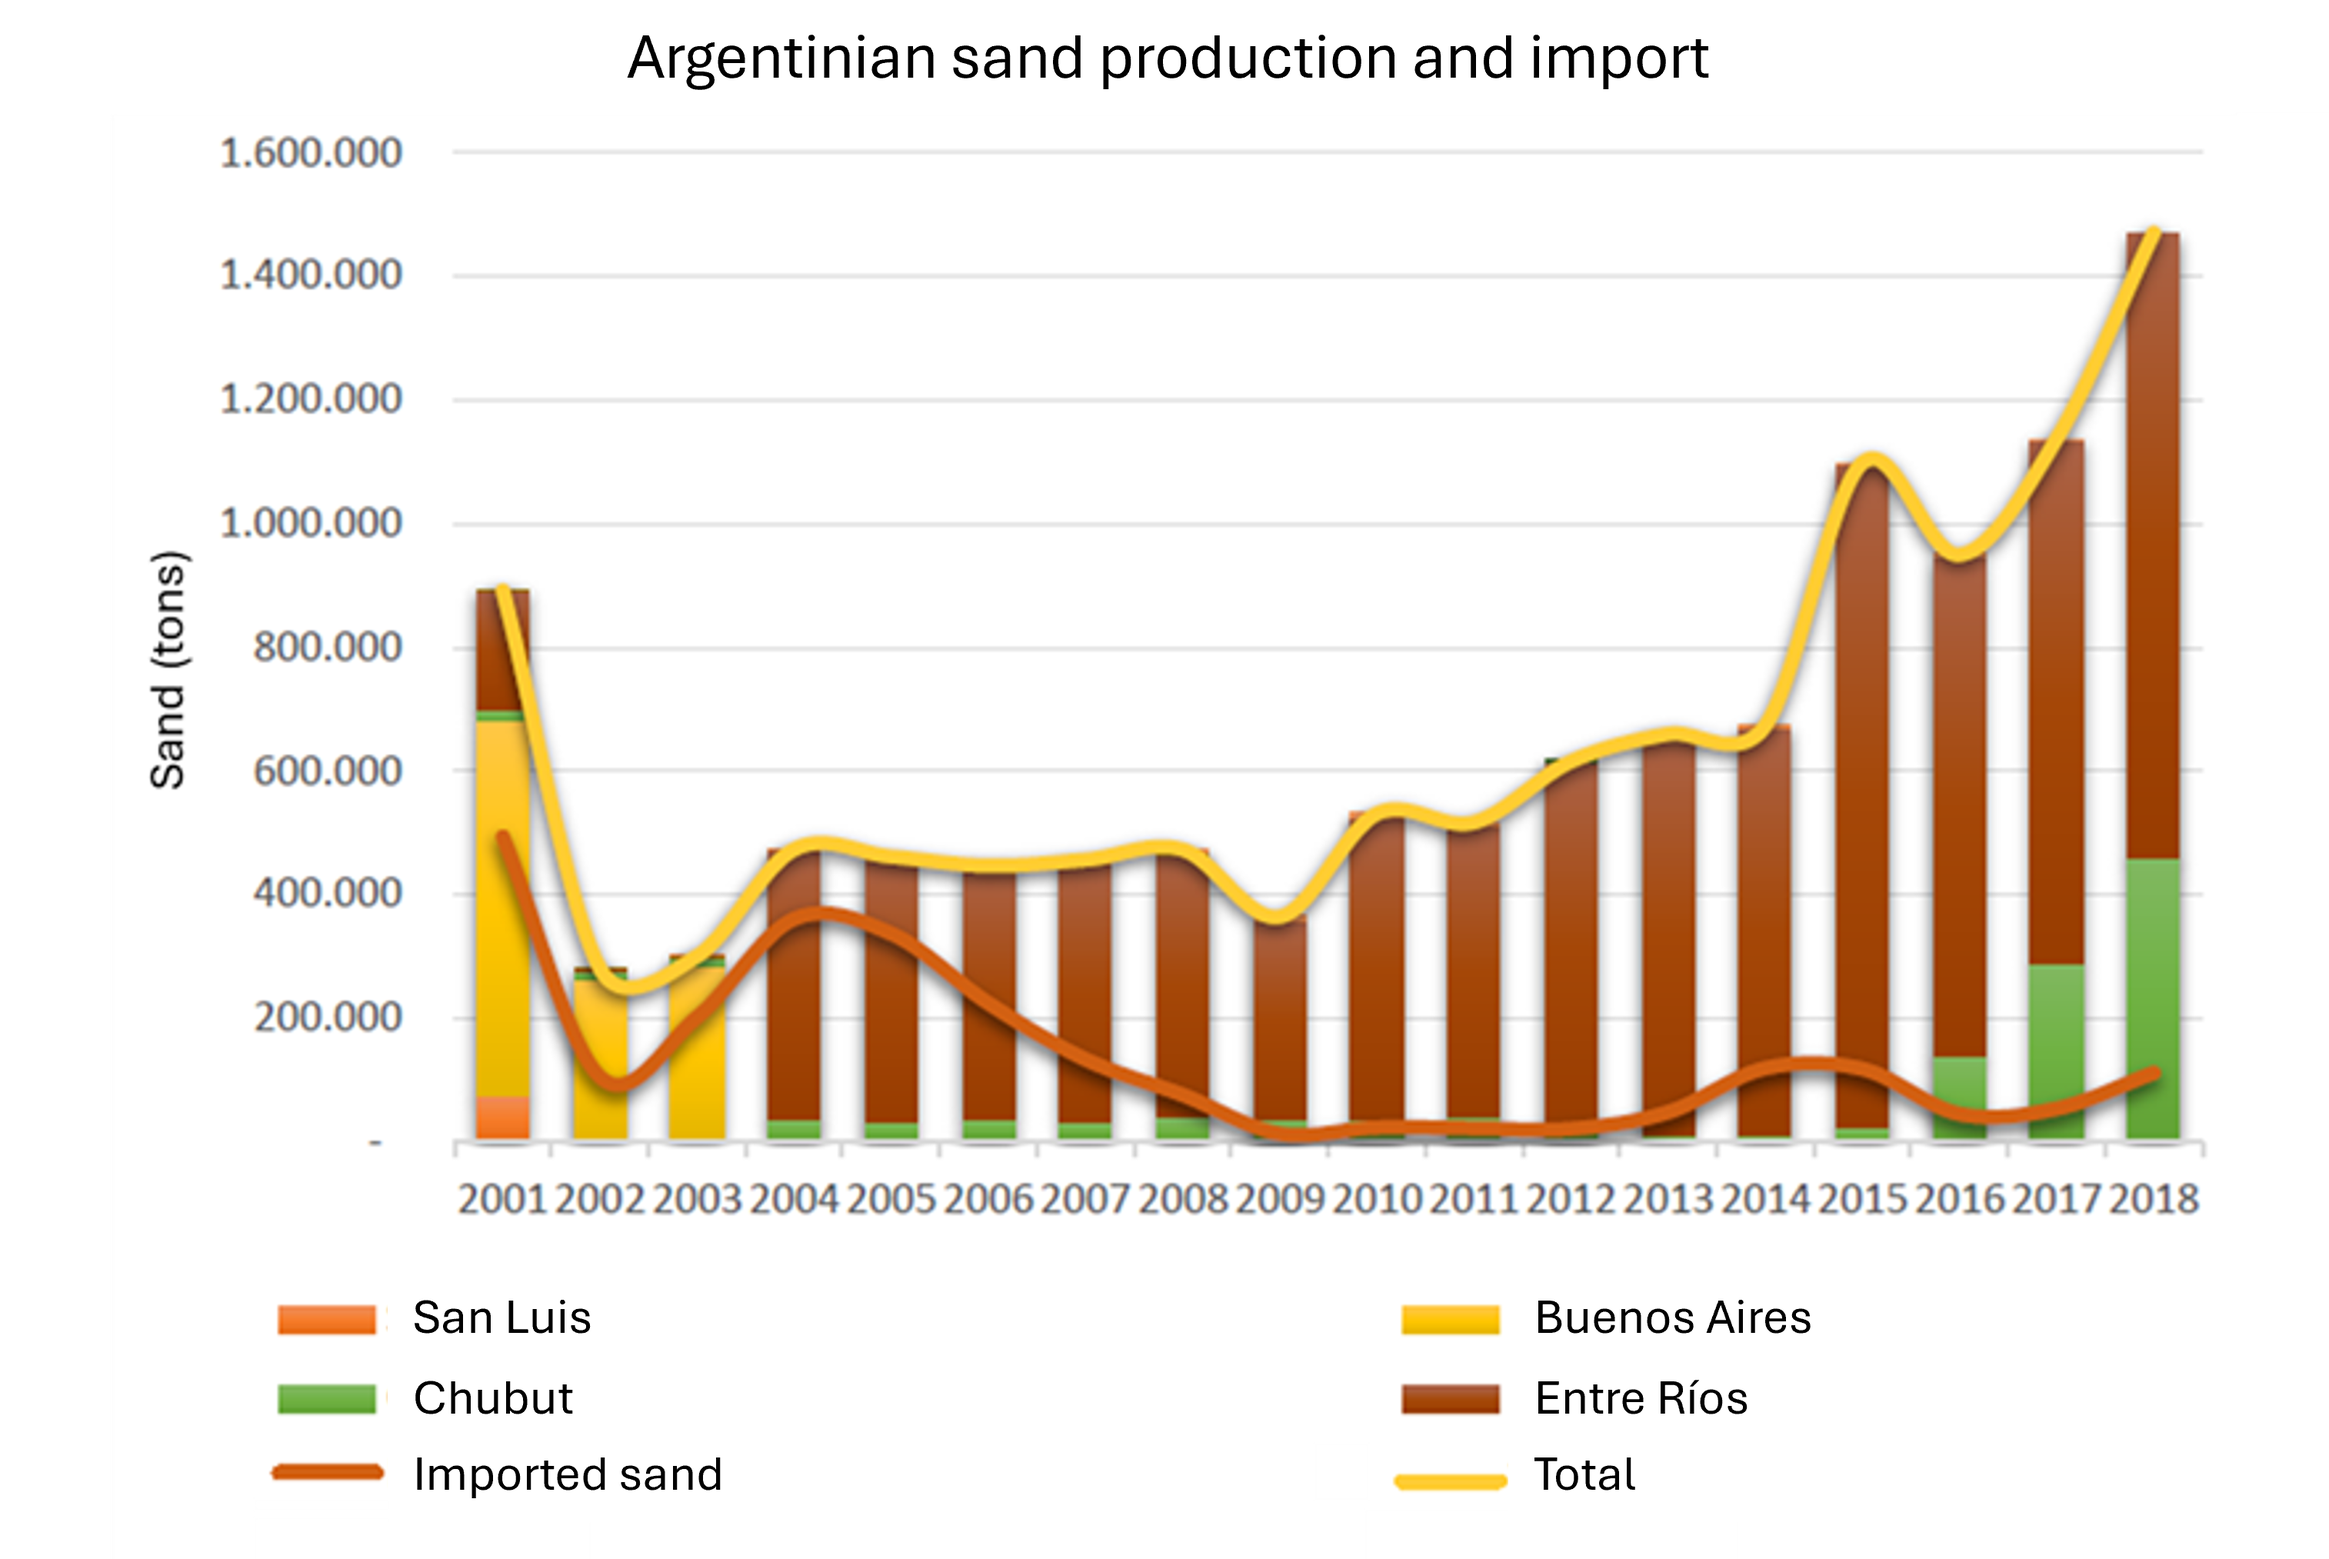
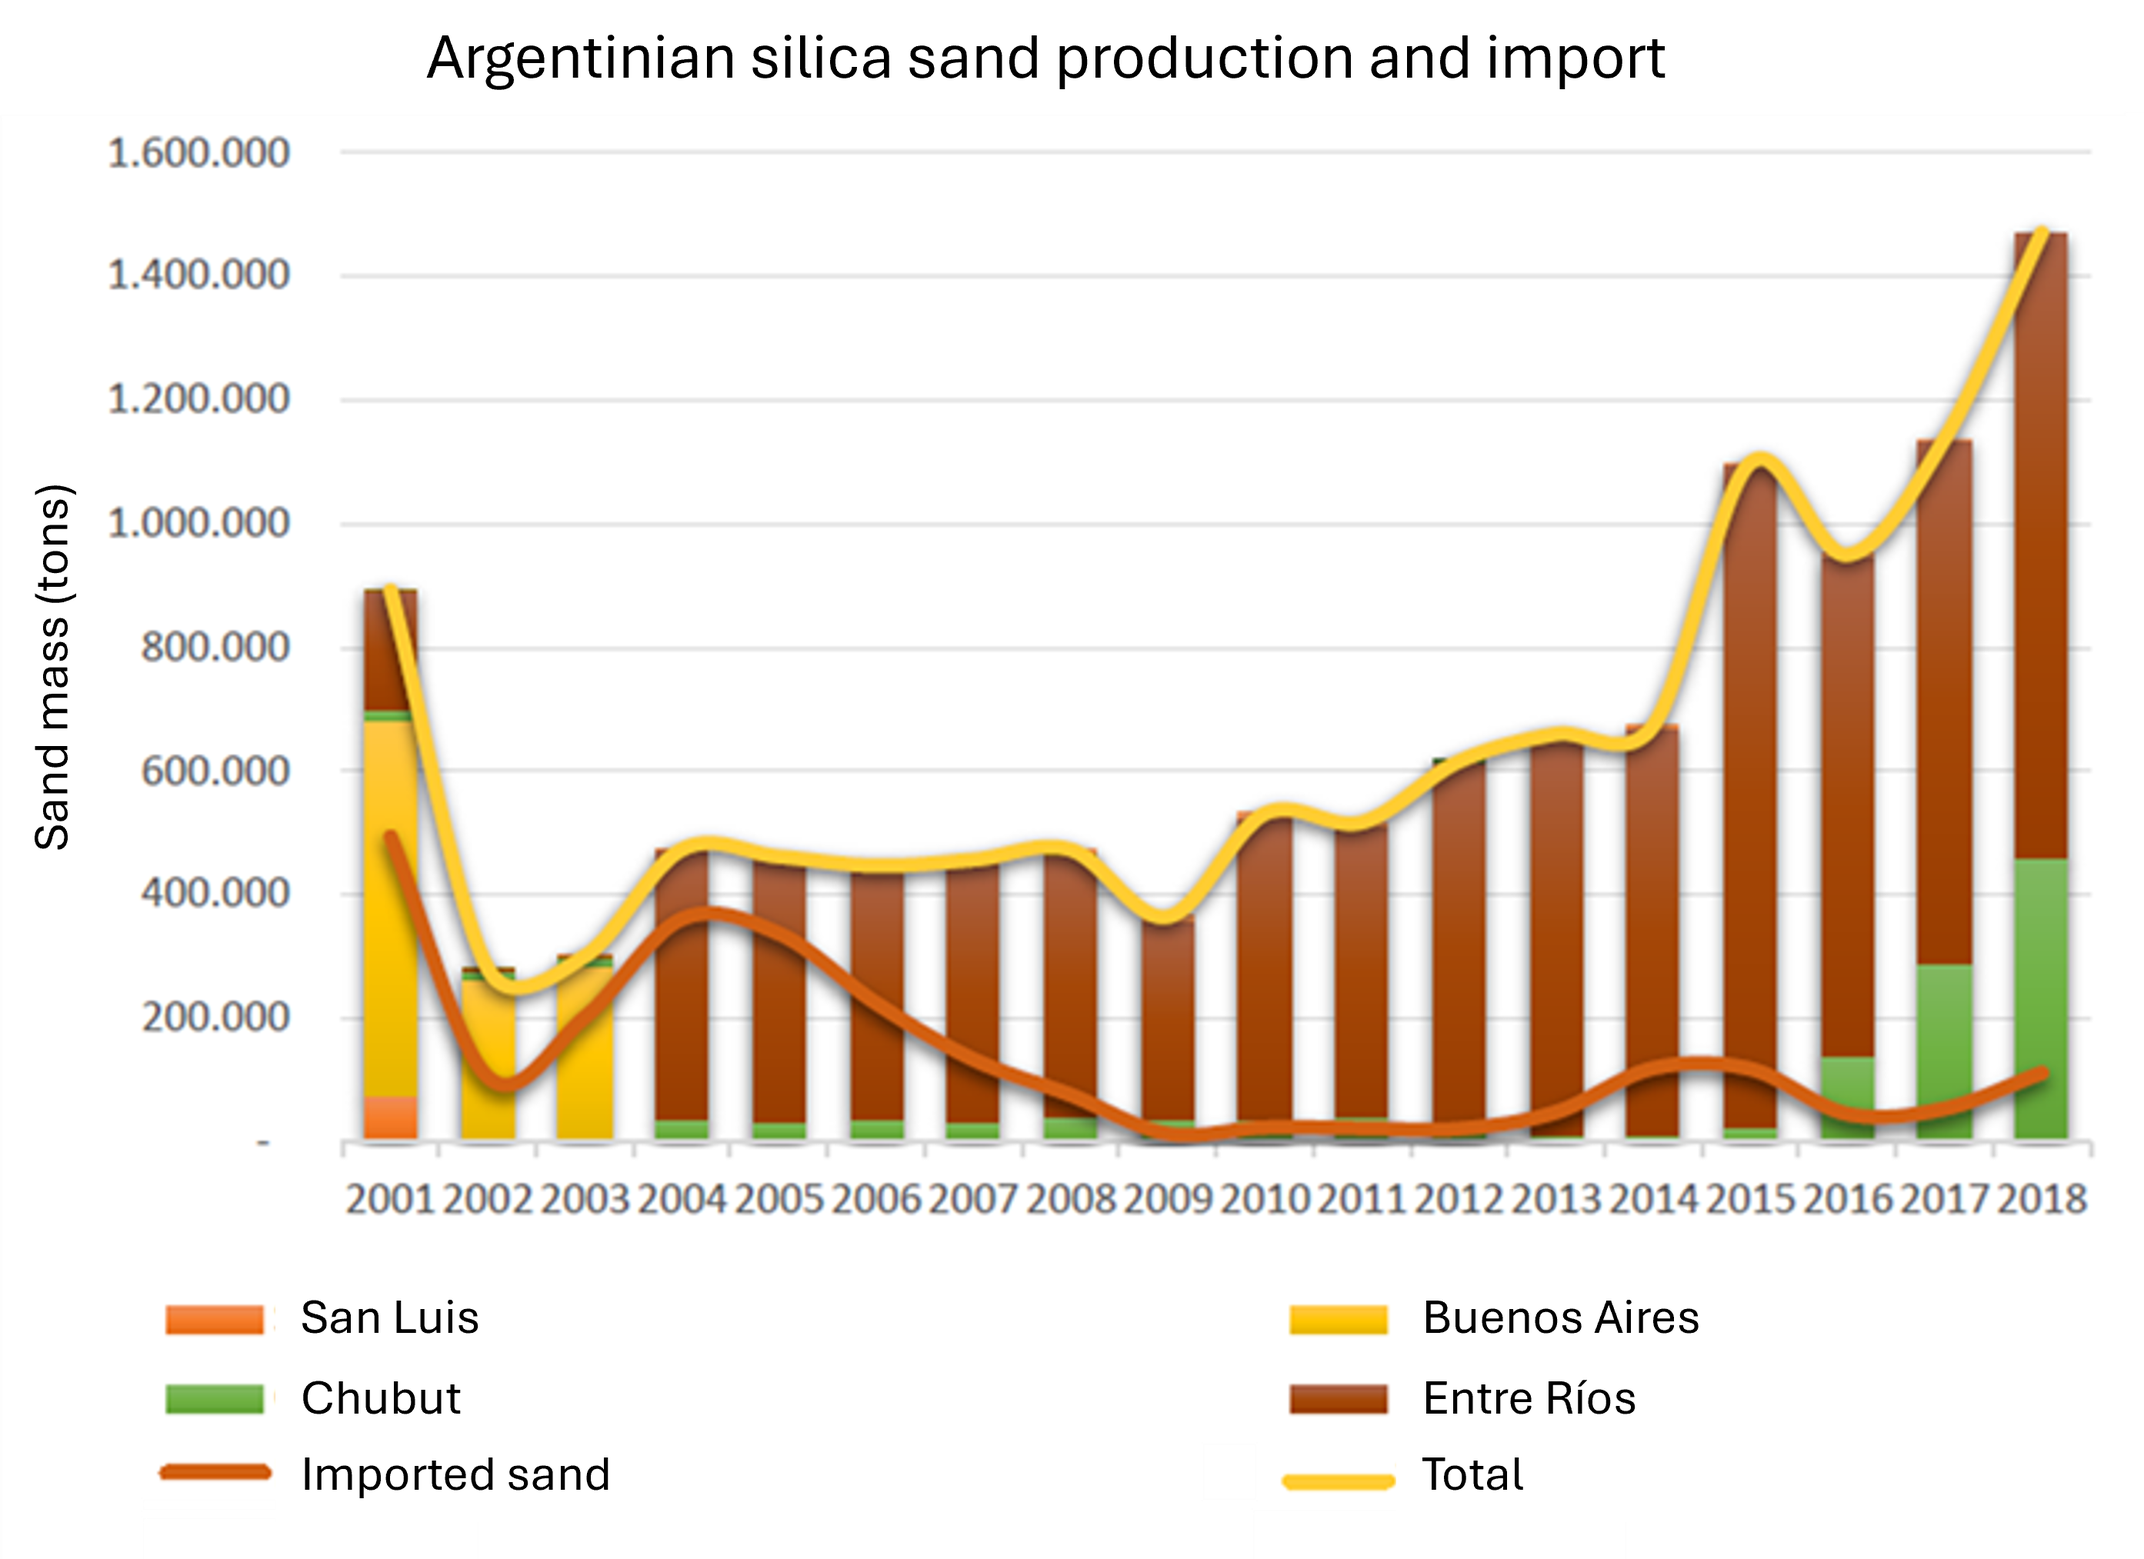
Update on Overleaf.

diff --git a/mainmatter/Chapter-9.tex b/mainmatter/Chapter-9.tex
@@ -31,21 +31,35 @@ In the 1970's, geologists became increasingly aware that large volumes of gas ex
 
 The technique begins by drilling a long vertical well. As soon as the desired rock formation is reached, drilling gradually turns horizontal and steel pipes called `casings' are inserted into the well. Small holes are perforated in the casing and then fracking fluid is pumped in at a pressure high enough to create new fractures or open existing ones in the surrounding rock. This allows previously unavailable oil or gas to flow to the surface \autocite{melissadenchakFracking1012019}.
 
-The fracking fluid contains as much as 97 percent water, but also always contains proppants. These are small, solid particles that keep the fractures in the rock formation open after the pressure from injection is removed. Sand is the most widely-used proppant in the fracking industry \autocite{melissadenchakFracking1012019}. Sand is thus an essential substance to keep the drilled pores open and to allow for the fossil fuels to flow out.
+The fracking fluid contains as much as 97 percent water, but also always contains proppants. These are small, solid particles that keep the fractures in the rock formation open after the pressure from injection is removed. Sand, or more specifically silica sand, is the most widely-used proppant in the fracking industry \autocite{melissadenchakFracking1012019}. Sand is thus an essential substance to keep the drilled pores open and to allow for the fossil fuels to flow out.
 
-\begin{figure}
+In figure \ref{fig:sanddiagram}, the mined silica sand masses as well as the imported masses are given.
+
+\begin{figure}[H]
     \centering
-    \includegraphics[width=0.75\linewidth]{figures/ch9/Sandgraphquantities.png}
-    \caption{Quantities of sand mined in Argentine provinces, adapted from \cite{arenaspara}}
-    \label{fig:placeholder}
+    \includegraphics[width=1\linewidth]{figures/ch9/Sandgraphquantities.png}
+    \caption{Quantities of sand mined in Argentine provinces, adapted from \cite{secretariadepoliticamineraArenasParaFracking2019}}
+    \label{fig:sanddiagram}
 \end{figure}
 
 2018: more than 90\% of used sand from national origin, the rest imported
+Percentage Entre Ríos
+De totale export van siliciumzand en kwartszand vertegenwoordigt minder dan 1% van de import van dezelfde aggregaten in 2018. De bestemmingen zijn buurlanden: Paraguay, Uruguay, Bolivia en Chili, en in alle gevallen wordt voor transport per vrachtwagen gekozen.
+Aantonen dat het voor fracking is? -> Niet bekend maar tegelijk met opmars fracking en ook in rapport
 
+Siliciumzand werd van oudsher beschouwd als een industrieel mineraal dat als grondstof werd gebruikt in de
+glasindustrie, waarvan de specificaties bepaalde eigenschappen
+vereisten.
+De inventarisatie van de afzettingen was dus afhankelijk van de vraag of het zand aan de voorwaarden voldeed
+nodig waren voor deze productieve sector. De opkomst van de vraag naar het gebruik ervan in de olie-industrie
+verruimde de horizon van de toepassingen van siliciumzand.
+Het is niet mogelijk om te weten welk deel van de productie bestemd is voor de exploitatie van niet-conventionele olie.
+en welk deel voor meer traditionele toepassingen wordt gebruikt,
 
-In 2017, toen de bevolking erin slaagde de anti-frackingwet aangenomen te krijgen om de
-watervoerende lagen te beschermen, leverde Entre Ríos al de helft van het silicazand dat in de
-Patagonische formatie werd gebruikt. Vandaag ligt dat cijfer tussen 65 % en 75 %.
+Hoewel de vraag naar siliciumzand verspreid is over verschillende industrieën, is de drijvende kracht achter deze vraag de
+exploitatie van onconventionele olie. Verwacht wordt dat deze trend zich zal doorzetten, niet alleen vanwege de eisen van
+het project in Neuquén, maar ook vanwege andere soortgelijke projecten die zich nog in de exploratiefase bevinden
+
 
 Van alle departementen waar het bedrijf actief is, is Ibicuy de plaats waar de "boom
 van Vaca Muerta" het meest voelbaar is. Bronnen die voor dit artikel zijn geraadpleegd,
@@ -66,11 +80,7 @@ belangrijkste klant(22) .
 Maar niet alleen nationale bedrijven hebben belangen in de steengroeven van Entre Ríos. De Belgische Jan de Nul Group, gespecialiseerd in haven- en maritieme engineering, richtte in 2016 Arenas Argentinas del Paraná
 op. Volgens eigen zeggen exploiteert het sinds 2019 een steengroeve aan de oever van de rivier El Salto in Diamante, drie kilometer van de plaats Aldea Brasilera en dertig kilometer ten zuiden van de stad Paraná. Daar wint het bedrijf zand met een zuiverheid van bijna 100 %, dat vervolgens in zijn fabriek in dezelfde plaats wordt verwerkt en aan klanten zoals Tecpetrol wordt verkocht.
 
-In de afgelopen twee jaar, 2017 en 2018, was 74% van de totale productie van siliciumzand afkomstig uit Entre Ríos en 26% uit Chubut.
-Plaatje
-Import
 
-De totale export van siliciumzand en kwartszand vertegenwoordigt minder dan 1% van de import van dezelfde aggregaten in 2018. De bestemmingen zijn buurlanden: Paraguay, Uruguay, Bolivia en Chili, en in alle gevallen wordt voor transport per vrachtwagen gekozen.
 
 
 Hoewel de vraag naar siliciumzand verspreid is over verschillende industrieën, is de drijvende kracht achter deze vraag de exploitatie van onconventionele olie. Verwacht wordt dat deze trend zich zal doorzetten, niet alleen vanwege de eisen van het project in Neuquén, maar ook vanwege andere soortgelijke projecten die zich nog in de exploratiefase bevinden
